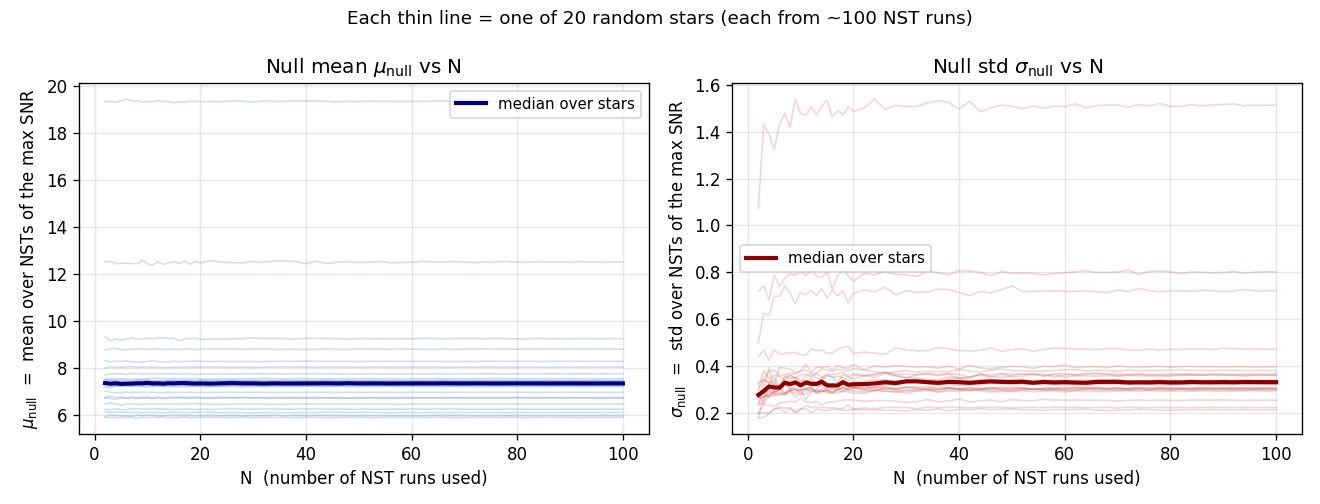
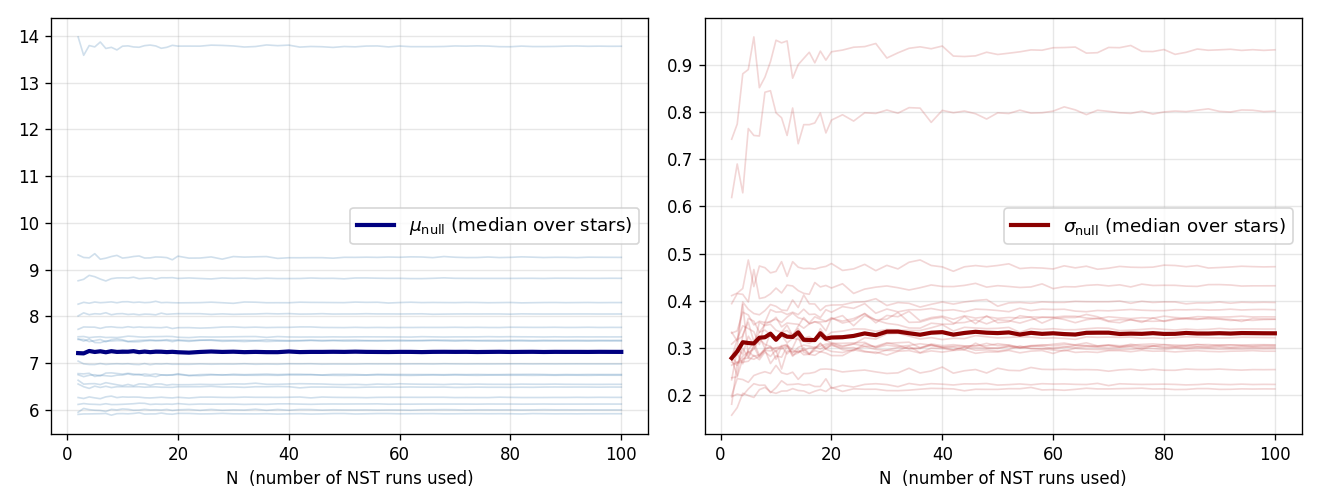
Overview plots: drop KDE from Plot 2; clean Plot 1 (no y-labels/titles, legend IDs μ/σ); exclude outlier stars
- Plot 1: removed y-axis labels and titles; the legend now identifies mu_null
  (left) and sigma_null (right). Excluded two readability outliers (a high-mu and
  a high-sigma star).
- Plot 2: removed the Gaussian-KDE curve; now shows only the Gaussian-approx
  estimate (median + 25-75% band) converging to the true p=0.01.
- overview.md text updated to match.

diff --git a/overview.md b/overview.md
@@ -4,7 +4,7 @@ We assign each candidate a significance by comparing its matched-filter SNR to a
 per-star **null distribution**, built from null-simulation tests (NSTs). The
 Gaussian p-value is
 
-$$ p\text{-value} = 1 - \Phi\!\left(\frac{\mathrm{SNR} - \mu_\mathrm{null}}{\sigma_\mathrm{null}}\right), $$
+$$ p\text{-value} = 1 - \Phi\left(\frac{\mathrm{SNR} - \mu_\mathrm{null}}{\sigma_\mathrm{null}}\right), $$
 
 where $\mu_\mathrm{null}$ and $\sigma_\mathrm{null}$ are the mean and standard
 deviation of the maximum SNR recovered in each NST run on that star.
@@ -16,7 +16,8 @@ estimates of $\mu$ and $\sigma$ as a function of the number of NSTs used, $N$.
 
 ![Convergence of μ and σ with the number of NSTs](overview_nst_musigma.png)
 
-The mean $\mu$ stabilises almost immediately, while the standard deviation
+The left panel shows $\mu_\mathrm{null}$ and the right panel $\sigma_\mathrm{null}$
+(each thin line is one star). The mean $\mu$ stabilises almost immediately, while the standard deviation
 $\sigma$ is noisy for $N \lesssim 20$ and settles by $N \approx 30$ — so a few
 tens of NSTs suffice to pin down the null distribution.
 
@@ -24,15 +25,12 @@ tens of NSTs suffice to pin down the null distribution.
 
 We pick, for each star, the SNR whose **true p-value is $0.01$** (the 99th
 percentile of its null max-SNR samples) and estimate that p-value as a function
-of $N$, both from the Gaussian approximation and from a Gaussian kernel-density
-estimate (KDE) of the same samples.
+of $N$ from the Gaussian approximation.
 
-![Gaussian vs KDE p-value at the p ≈ 0.01 threshold](overview_nst_pvalue.png)
+![Gaussian p-value at the p ≈ 0.01 threshold](overview_nst_pvalue.png)
 
-Solid lines are the median across the 20 stars and the shaded bands are the
-25th–75th percentile across them. The Gaussian approximation converges to the
-true $p = 0.01$ (red dashed) by $N \approx 40$, whereas the KDE over-estimates
-the tail by roughly a factor of two at these sample sizes (its kernels leak
-probability past the threshold). The per-star null max-SNR distribution is
-therefore close to Gaussian, and the Gaussian p-value is a reliable significance
-estimate.
+The solid line is the median across the 20 stars and the shaded band is the
+25th–75th percentile across them. The Gaussian estimate converges to the true
+$p = 0.01$ (red dashed) by $N \approx 40$ and stays within a factor of ~2 of it,
+so the per-star null max-SNR distribution is close to Gaussian and the Gaussian
+p-value is a reliable significance estimate.
